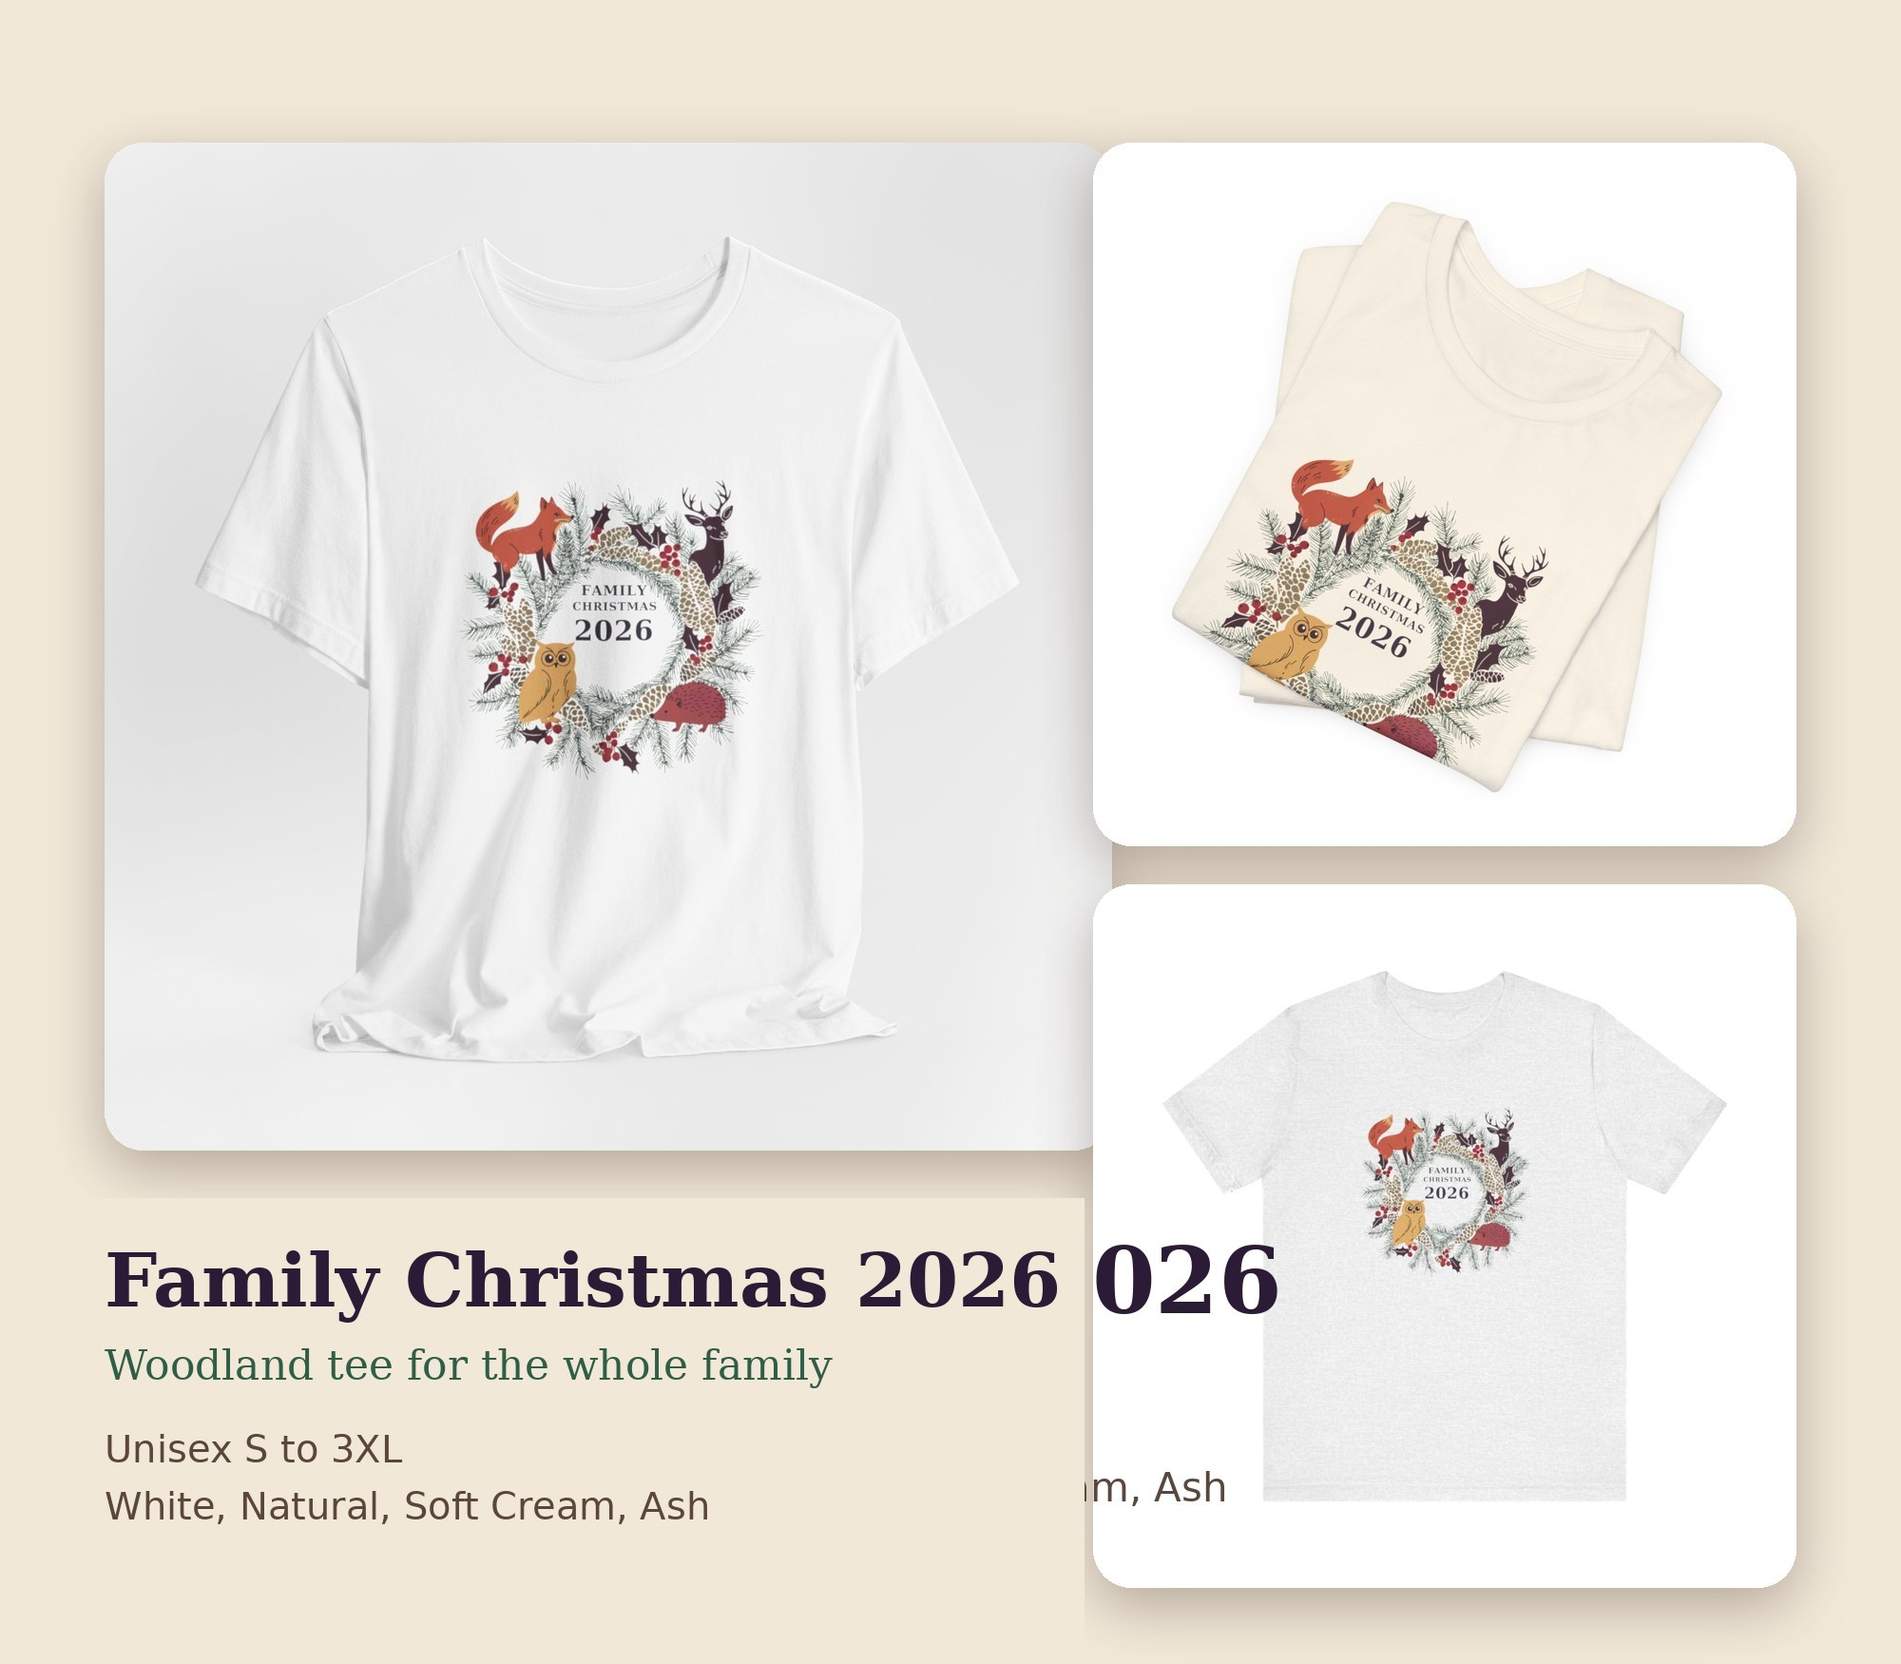
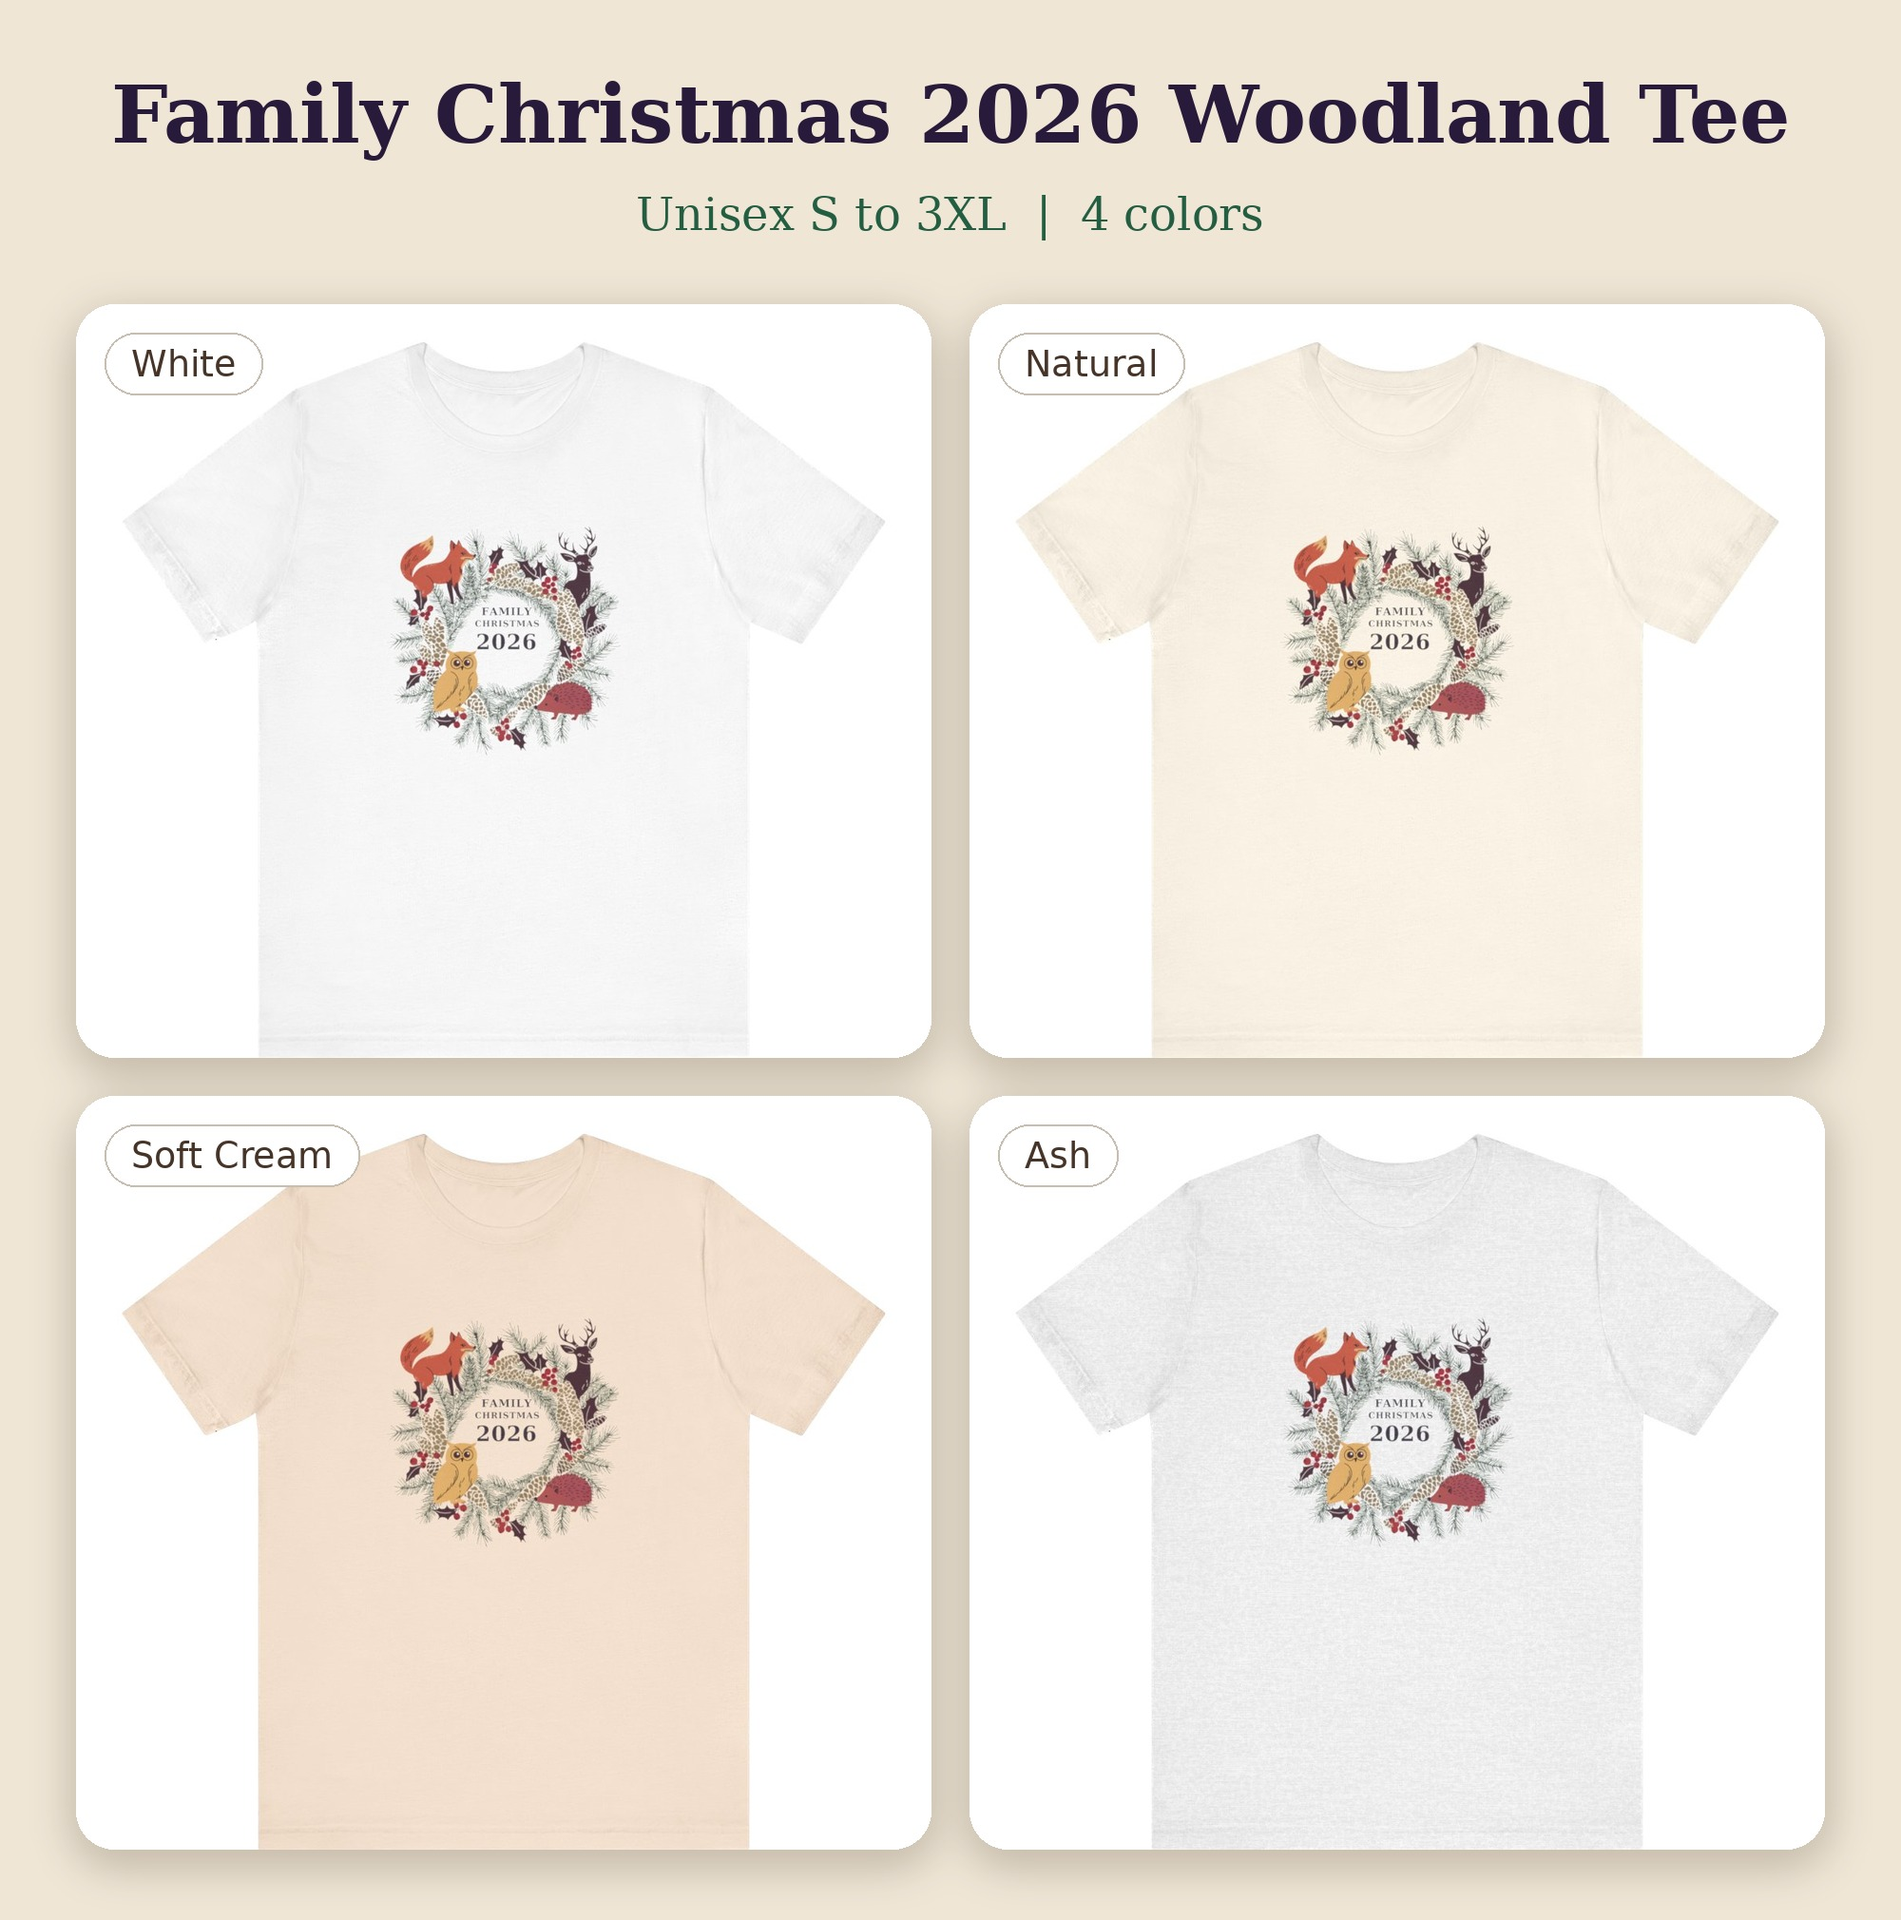
pod/005: rebuild lead-lifestyle.jpg (clean 2x2 color grid, single headline)
Claude-Session: https://claude.ai/code/session_01Bk9BZT9NJebJJy1NsCqBgC

diff --git a/pod/005-family-christmas-woodland-tee/QA.md b/pod/005-family-christmas-woodland-tee/QA.md
@@ -23,4 +23,6 @@ The plain Printify renders (front-*.jpg) are fine; only the composite is broken.
 2. Update mockups.json etsy_lead_photo_plan if the photo order changes (the publish instructions above name lead-lifestyle.jpg, folded-natural.jpg, folded-white.jpg and front-ash.jpg).
 Nothing else needs changing; Printify product, art and copy are approved as they stand.
 
+(fix round: lead photo rebuilt)
+
 **Verdict: REJECTED**
